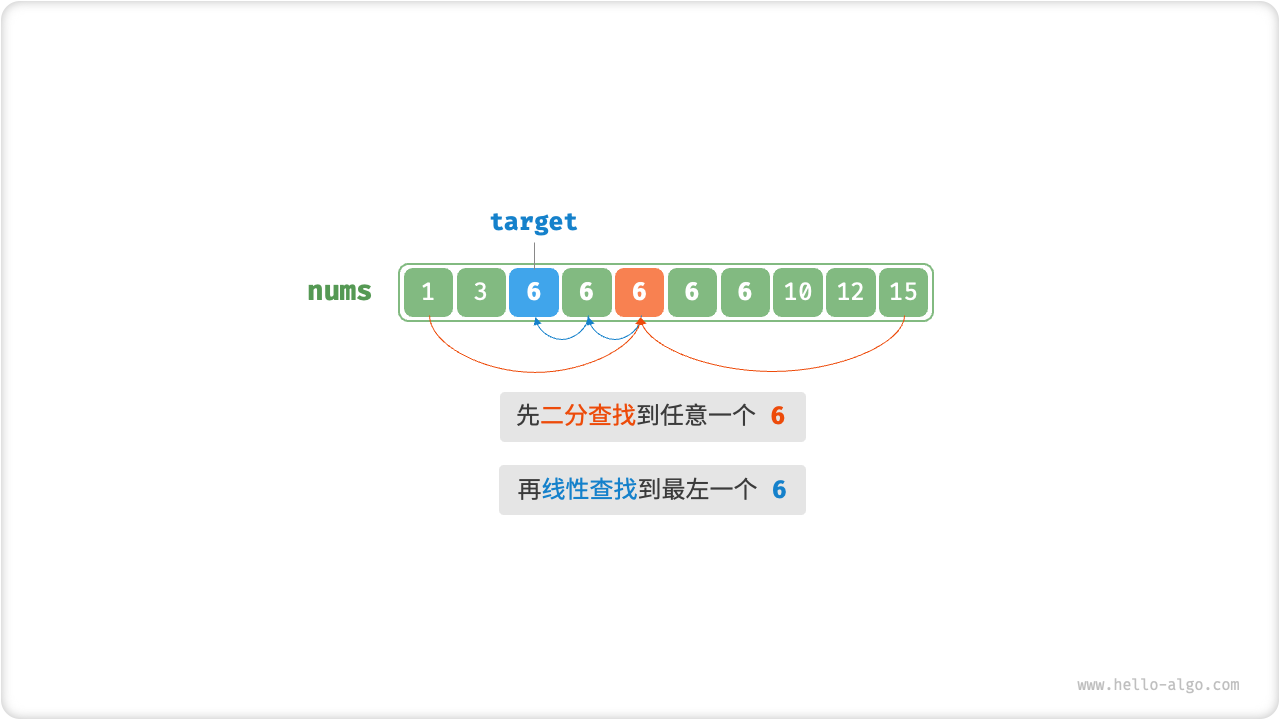
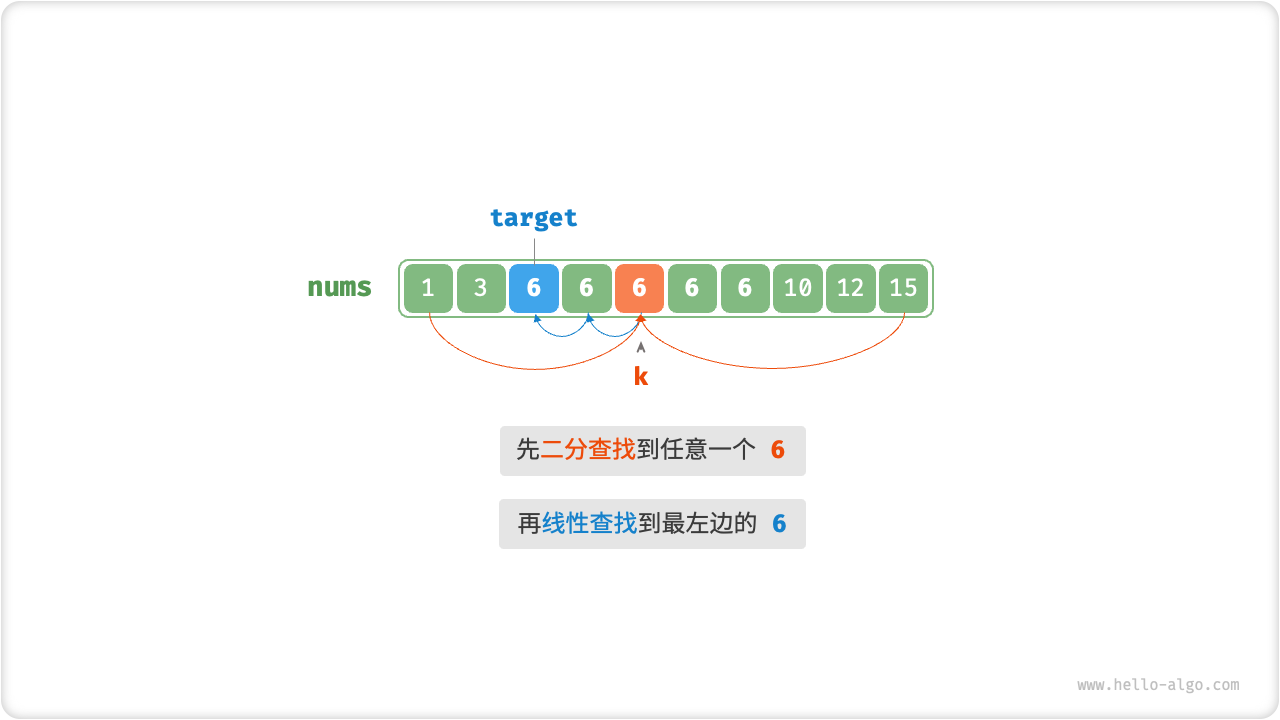
Polish the sections of binary search.

Changed region(s): [[0.3125, 0.275, 0.75, 0.7639], [0.25, 0.3667, 0.3125, 0.4278]]

diff --git a/docs/chapter_searching/binary_search.md b/docs/chapter_searching/binary_search.md
@@ -2,25 +2,21 @@
 
 「二分查找 Binary Search」是一种基于分治思想的高效搜索算法。它利用数据的有序性，每轮减少一半搜索范围，直至找到目标元素或搜索区间为空为止。
 
-我们先来求解一个简单的二分查找问题。
-
 !!! question
 
-    给定一个长度为 $n$ 的有序数组 `nums` ，元素按从小到大的顺序排列。请查找并返回元素 `target` 在该数组中的索引。若数组中不包含该元素，则返回 $-1$ 。数组中不包含重复元素。
+    给定一个长度为 $n$ 的数组 `nums` ，元素按从小到大的顺序排列，数组不包含重复元素。请查找并返回元素 `target` 在该数组中的索引。若数组不包含该元素，则返回 $-1$ 。
 
-该数组的索引范围可以使用区间 $[0, n - 1]$ 来表示。其中，**中括号表示“闭区间”，即包含边界值本身**。在该表示下，区间 $[i, j]$ 在 $i = j$ 时仍包含一个元素，在 $i > j$ 时为空区间。
+对于上述问题，我们先初始化指针 $i = 0$ 和 $j = n - 1$ ，分别指向数组首元素和尾元素，代表搜索区间 $[0, n - 1]$ 。其中，中括号表示“闭区间”，即包含边界值本身。
 
-接下来，我们基于上述区间定义实现二分查找。先初始化指针 $i = 0$ 和 $j = n - 1$ ，分别指向数组首元素和尾元素。之后循环执行以下两个步骤:
+接下来，循环执行以下两个步骤：
 
 1. 计算中点索引 $m = \lfloor {(i + j) / 2} \rfloor$ ，其中 $\lfloor \space \rfloor$ 表示向下取整操作。
-2. 根据 `nums[m]` 和 `target` 缩小搜索区间，分为三种情况：
+2. 判断 `nums[m]` 和 `target` 的大小关系，分为三种情况：
     1. 当 `nums[m] < target` 时，说明 `target` 在区间 $[m + 1, j]$ 中，因此执行 $i = m + 1$ ；
     2. 当 `nums[m] > target` 时，说明 `target` 在区间 $[i, m - 1]$ 中，因此执行 $j = m - 1$ ；
-    3. 当 `nums[m] = target` 时，说明找到目标元素，直接返回索引 $m$ 即可；
+    3. 当 `nums[m] = target` 时，说明找到 `target` ，因此返回索引 $m$ ；
 
-**若数组不包含目标元素，搜索区间最终会缩小为空**，即达到 $i > j$ 。此时，终止循环并返回 $-1$ 即可。
-
-如下图所示，为了更清晰地表示区间，我们以折线图的形式表示数组。
+若数组不包含目标元素，搜索区间最终会缩小为空。此时返回 $-1$ 。
 
 === "<0>"
     ![二分查找步骤](binary_search.assets/binary_search_step0.png)
@@ -46,7 +42,7 @@
 === "<7>"
     ![binary_search_step7](binary_search.assets/binary_search_step7.png)
 
-值得注意的是，**当数组长度 $n$ 很大时，加法 $i + j$ 的结果可能会超出 `int` 类型的取值范围**。为了避免大数越界，我们通常采用公式 $m = \lfloor {i + (j - i) / 2} \rfloor$ 来计算中点。
+值得注意的是，由于 $i$ 和 $j$ 都是 `int` 类型，**因此 $i + j$ 可能会超出 `int` 类型的取值范围**。为了避免大数越界，我们通常采用公式 $m = \lfloor {i + (j - i) / 2} \rfloor$ 来计算中点。
 
 === "Java"
 
@@ -188,11 +184,11 @@
 
 二分查找在时间和空间方面都有较好的性能：
 
-- **二分查找的时间效率高**。在大数据量下，对数阶的时间复杂度具有显著优势。例如，当数据大小 $n = 2^{20}$ 时，线性查找需要 $2^{20} = 1048576$ 轮循环，而二分查找仅需 $\log_2 2^{20} = 20$ 轮循环。
-- **二分查找无需额外空间**。相较于需要借助额外空间的搜索算法（例如哈希查找），二分查找更加节省空间。
+- 二分查找的时间效率高。在大数据量下，对数阶的时间复杂度具有显著优势。例如，当数据大小 $n = 2^{20}$ 时，线性查找需要 $2^{20} = 1048576$ 轮循环，而二分查找仅需 $\log_2 2^{20} = 20$ 轮循环。
+- 二分查找无需额外空间。相较于需要借助额外空间的搜索算法（例如哈希查找），二分查找更加节省空间。
 
 然而，二分查找并非适用于所有情况，原因如下：
 
-- **二分查找仅适用于有序数据**。若输入数据无序，为了使用二分查找而专门进行排序，得不偿失。因为排序算法的时间复杂度通常为 $O(n \log n)$ ，比线性查找和二分查找都更高。对于频繁插入元素的场景，为保持数组有序性，需要将元素插入到特定位置，时间复杂度为 $O(n)$ ，也是非常昂贵的。
-- **二分查找仅适用于数组**。二分查找需要跳跃式（非连续地）访问元素，而在链表中执行跳跃式访问的效率较低，因此不适合应用在链表或基于链表实现的数据结构。
-- **小数据量下，线性查找性能更佳**。在线性查找中，每轮只需要 1 次判断操作；而在二分查找中，需要 1 次加法、1 次除法、1 ~ 3 次判断操作、1 次加法（减法），共 4 ~ 6 个单元操作；因此，当数据量 $n$ 较小时，线性查找反而比二分查找更快。
+- 二分查找仅适用于有序数据。若输入数据无序，为了使用二分查找而专门进行排序，得不偿失。因为排序算法的时间复杂度通常为 $O(n \log n)$ ，比线性查找和二分查找都更高。对于频繁插入元素的场景，为保持数组有序性，需要将元素插入到特定位置，时间复杂度为 $O(n)$ ，也是非常昂贵的。
+- 二分查找仅适用于数组。二分查找需要跳跃式（非连续地）访问元素，而在链表中执行跳跃式访问的效率较低，因此不适合应用在链表或基于链表实现的数据结构。
+- 小数据量下，线性查找性能更佳。在线性查找中，每轮只需要 1 次判断操作；而在二分查找中，需要 1 次加法、1 次除法、1 ~ 3 次判断操作、1 次加法（减法），共 4 ~ 6 个单元操作；因此，当数据量 $n$ 较小时，线性查找反而比二分查找更快。

diff --git a/docs/chapter_searching/binary_search_edge.md b/docs/chapter_searching/binary_search_edge.md
@@ -2,28 +2,32 @@
 
 上一节规定目标元素在数组中是唯一的。如果目标元素在数组中多次出现，上节介绍的方法只能保证返回其中一个目标元素的索引，**而无法确定该索引的左边和右边还有多少目标元素**。
 
-为了查找最左一个 `target` ，我们可以先进行二分查找，找到任意一个目标元素，**再加一个向左遍历的线性查找**，找到最左的 `target` 返回即可。然而，由于加入了线性查找，这个方法的时间复杂度可能会劣化至 $O(n)$ 。
-
-![线性查找最左元素](binary_search_edge.assets/binary_search_left_edge_naive.png)
-
-## 查找最左一个元素
-
 !!! question
 
-    给定一个长度为 $n$ 的有序数组 `nums` 。请查找并返回元素 `target` 在该数组中首次出现的索引。若数组中不包含该元素，则返回 $-1$ 。数组可能包含重复元素。
+    给定一个长度为 $n$ 的有序数组 `nums` ，数组可能包含重复元素。请查找并返回元素 `target` 在数组中首次出现的索引。若数组中不包含该元素，则返回 $-1$ 。
 
-实际上，我们可以仅通过二分查找解决以上问题。方法的整体框架不变，先计算中点索引 `m` ，再判断 `target` 和 `nums[m]` 大小关系：
+## 简单方法
 
-- 当 `nums[m] < target` 或 `nums[m] > target` 时，说明还没有找到 `target` ，因此采取与上节代码相同的缩小区间操作。
-- 当 `nums[m] == target` 时，说明找到了一个目标元素，此时应该如何缩小区间？
+为了查找数组中最左边的 `target` ，我们可以分为两步：
 
-对于该情况，**我们可以将查找目标想象为 `leftarget`**，其中 `leftarget` 表示从右到左首个小于 `target` 的元素。具体来说：
+1. 进行二分查找，定位到任意一个 `target` 的索引，记为 $k$ ；
+2. 以索引 $k$ 为起始点，向左进行线性遍历，找到最左边的 `target` 返回即可。
 
-- 当 `nums[m] == target` 时，说明 `leftarget` 在区间 `[i, m - 1]` 中，因此采用 `j = m - 1` 来缩小区间，**从而使指针 `j` 向 `leftarget` 收缩靠近**。
-- 二分查找完成后，`i` 指向最左一个 `target` ，`j` 指向 `leftarget` ，因此最终返回索引 `i` 即可。
+![线性查找最左边的元素](binary_search_edge.assets/binary_search_left_edge_naive.png)
+
+这个方法虽然有效，但由于包含线性查找，**其时间复杂度可能会劣化至 $O(n)$** 。
+
+## 二分方法
+
+实际上，我们可以仅通过二分查找解决以上问题。整体算法流程不变，先计算中点索引 $m$ ，再判断 `target` 和 `nums[m]` 大小关系：
+
+- 当 `nums[m] < target` 或 `nums[m] > target` 时，说明还没有找到 `target` ，因此采取与上节代码相同的缩小区间操作，**从而使指针 $i$ 和 $j$ 向 `target` 靠近**。
+- 当 `nums[m] == target` 时，说明“小于 `target` 的元素”在区间 $[i, m - 1]$ 中，因此采用 $j = m - 1$ 来缩小区间，**从而使指针 $j$ 向小于 `target` 的元素靠近**。
+
+二分查找完成后，**$i$ 指向最左边的 `target` ，$j$ 指向首个小于 `target` 的元素**，因此返回索引 $i$ 即可。
 
 === "<1>"
-    ![二分查找最左元素的步骤](binary_search_edge.assets/binary_search_left_edge_step1.png)
+    ![二分查找最左边元素的步骤](binary_search_edge.assets/binary_search_left_edge_step1.png)
 
 === "<2>"
     ![binary_search_left_edge_step2](binary_search_edge.assets/binary_search_left_edge_step2.png)
@@ -46,7 +50,7 @@
 === "<8>"
     ![binary_search_left_edge_step8](binary_search_edge.assets/binary_search_left_edge_step8.png)
 
-注意，数组可能不包含目标元素 `target` 。因此在函数返回前，我们需要先判断 `nums[i]` 与 `target` 是否相等。另外，当 `target` 大于数组中的所有元素时，索引 `i` 会越界，因此也需要额外判断。
+注意，数组可能不包含目标元素 `target` 。因此在函数返回前，我们需要先判断 `nums[i]` 与 `target` 是否相等，以及索引 $i$ 是否越界。
 
 === "Java"
 
@@ -108,12 +112,11 @@
     [class]{}-[func]{binarySearchLeftEdge}
     ```
 
-## 查找最右一个元素
+## 查找右边界
 
-类似地，我们也可以二分查找最右一个元素。设首个大于 `target` 的元素为 `rightarget` 。
+类似地，我们也可以二分查找最右边的 `target` 。当 `nums[m] == target` 时，说明大于 `target` 的元素在区间 $[m + 1, j]$ 中，因此执行 `i = m + 1` ，**使得指针 $i$ 向大于 `target` 的元素靠近**。
 
-- 当 `nums[m] == target` 时，说明 `rightarget` 在区间 `[m + 1, j]` 中，因此执行 `i = m + 1` 将搜索区间向右收缩。
-- 完成二分后，`i` 指向 `rightarget` ，`j` 指向最右一个 `target` ，因此最终返回索引 `j` 即可。
+完成二分后，**$i$ 指向首个大于 `target` 的元素，$j$ 指向最右边的 `target`** ，因此返回索引 $j$ 即可。
 
 === "Java"
 
@@ -175,9 +178,9 @@
     [class]{}-[func]{binarySearchRightEdge}
     ```
 
-观察下图，搜索最右元素时指针 `j` 起到了搜索最左元素时指针 `i` 的作用，反之亦然。本质上看，**搜索最左元素和最右元素的实现是镜像对称的**。
+观察下图，搜索最右边元素时指针 $j$ 的作用与搜索最左边元素时指针 $i$ 的作用一致，反之亦然。也就是说，**搜索最左边元素和最右边元素的实现是镜像对称的**。
 
-![二分查找最左元素和最右元素](binary_search_edge.assets/binary_search_left_right_edge.png)
+![查找最左边和最右边元素的对称性](binary_search_edge.assets/binary_search_left_right_edge.png)
 
 !!! tip
 
